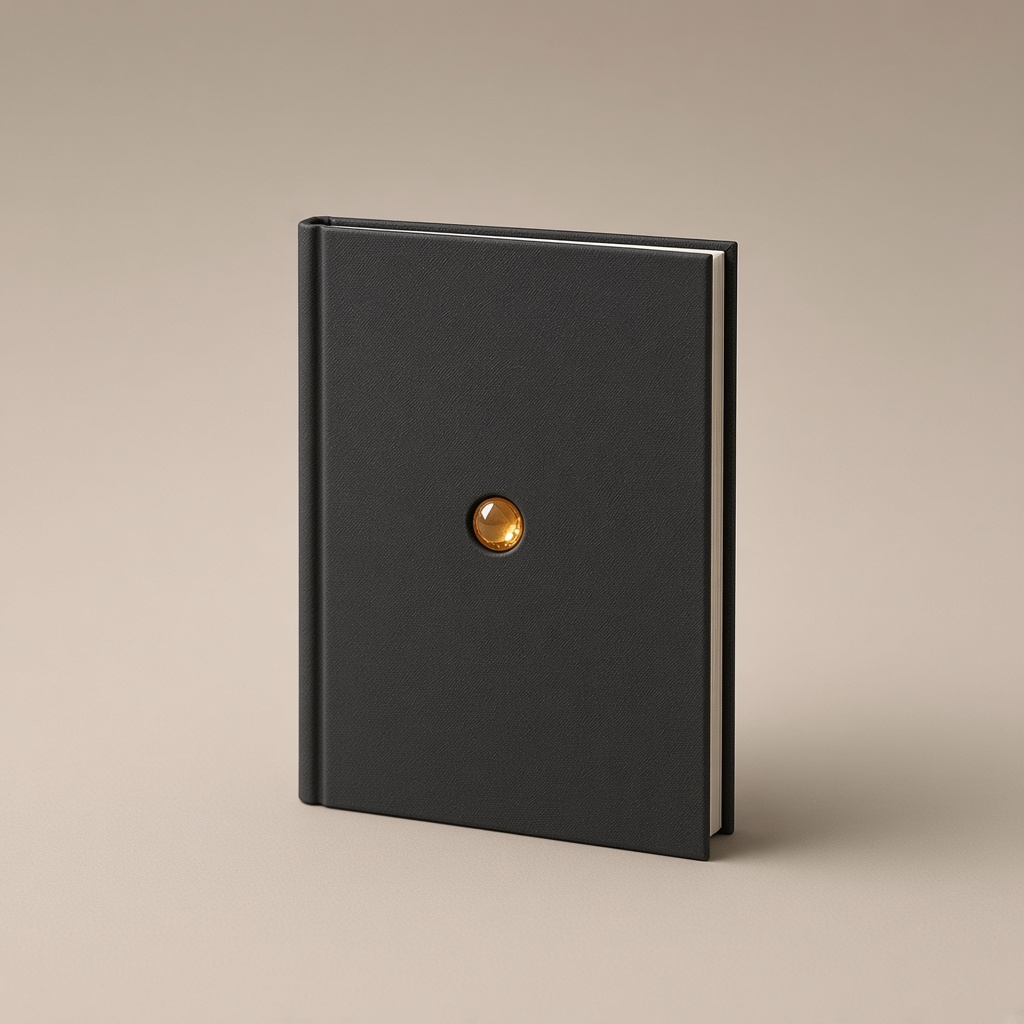
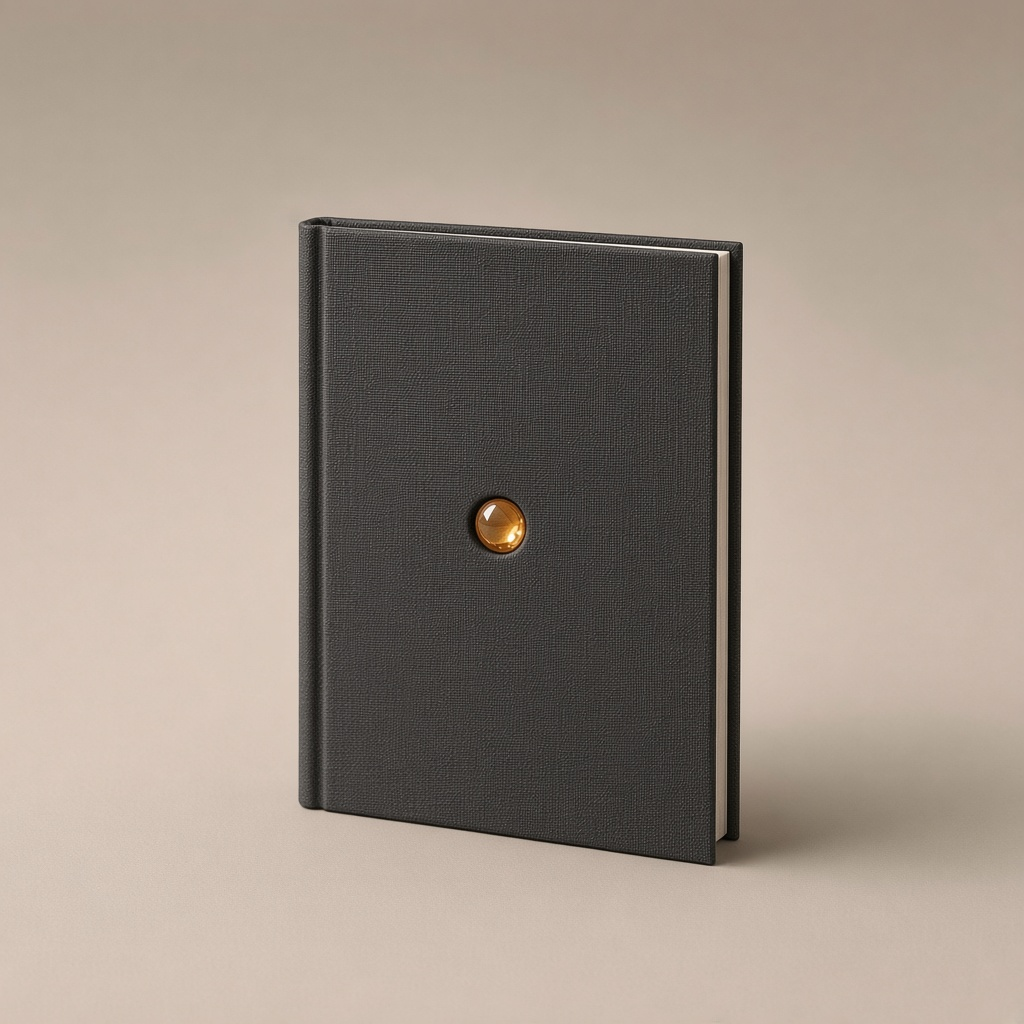
Replace the Premium photograph with a name and badge, and give the book covers a cloth texture.

Changed region(s): [[0.2812, 0.2188, 0.75, 0.8438]]

diff --git a/app/globals.css b/app/globals.css
@@ -336,6 +336,43 @@ h1, h2, h3 { font-family: var(--serif); font-weight: 400; letter-spacing: -0.03e
   line-height: 1.02;
   letter-spacing: -0.03em;
 }
+.premium-cover {
+  width: 100%;
+  height: 100%;
+  background:
+    radial-gradient(circle at 50% 40%, rgba(255, 255, 255, 0.55), transparent 42%),
+    var(--stage);
+  color: var(--ink);
+  display: flex;
+  flex-direction: column;
+  align-items: center;
+  justify-content: center;
+  gap: 8%;
+  container-type: inline-size;
+}
+.premium-badge {
+  width: 24%;
+  aspect-ratio: 1;
+  border-radius: 50%;
+  border: 1px solid rgba(28, 26, 23, 0.55);
+  box-shadow: inset 0 0 0 0.35em rgba(28, 26, 23, 0.12);
+  display: flex;
+  align-items: center;
+  justify-content: center;
+}
+.premium-badge svg { width: 54%; height: 54%; }
+.card-media .premium-cover,
+.stage .premium-cover {
+  position: absolute;
+  inset: 0;
+}
+.premium-cover strong {
+  font-family: var(--serif);
+  font-weight: 400;
+  font-size: 14cqw;
+  letter-spacing: -0.03em;
+  line-height: 1;
+}
 
 .color-row {
   list-style: none;
@@ -481,13 +518,20 @@ h1, h2, h3 { font-family: var(--serif); font-weight: 400; letter-spacing: -0.03e
   border-top: 1px solid var(--border);
   align-items: center;
 }
-.line img, .line .thumb {
+.line .thumb img,
+.line .thumb .premium-cover,
+.line .thumb .plate {
+  width: 100%;
+  height: 100%;
+  object-fit: cover;
+}
+.line .thumb {
   width: 88px;
   height: 88px;
-  object-fit: cover;
+  display: flex;
   background: var(--stage);
+  overflow: hidden;
 }
-.line .thumb { display: flex; }
 .line .thumb .plate { padding: 8px; }
 .line .thumb .plate strong { font-size: 0.95rem; }
 .line-name { font-family: var(--serif); color: var(--fg); font-size: 1.15rem; text-decoration: none; }

diff --git a/components/BagDrawer.tsx b/components/BagDrawer.tsx
@@ -4,8 +4,9 @@ import Link from "next/link";
 import { useEffect, useRef } from "react";
 import { useCart } from "@/components/CartProvider";
 import { Qty } from "@/components/Qty";
+import { ProductVisual } from "@/components/ProductVisual";
 import { summarize } from "@/lib/bag";
-import { asset, formatEUR } from "@/lib/site";
+import { formatEUR } from "@/lib/site";
 
 export function BagDrawer() {
   const { lines, drawerOpen, setDrawerOpen, setQty, remove } = useCart();
@@ -40,15 +41,9 @@ export function BagDrawer() {
           ) : (
             summary.resolved.map((item) => (
               <div className="line" key={item.line.key}>
-                {item.image ? (
-                  <img src={asset(item.image)} alt="" />
-                ) : (
-                  <div className="thumb">
-                    <div className="plate">
-                      <strong>{item.product.plate?.title}</strong>
-                    </div>
-                  </div>
-                )}
+                <div className="thumb">
+                  <ProductVisual product={item.product} src={item.image} alt="" />
+                </div>
                 <div>
                   <Link
                     className="line-name"

diff --git a/components/BagView.tsx b/components/BagView.tsx
@@ -3,8 +3,9 @@
 import Link from "next/link";
 import { useCart } from "@/components/CartProvider";
 import { Qty } from "@/components/Qty";
+import { ProductVisual } from "@/components/ProductVisual";
 import { summarize } from "@/lib/bag";
-import { asset, formatEUR } from "@/lib/site";
+import { formatEUR } from "@/lib/site";
 
 export function BagView() {
   const { lines, ready, setQty, remove } = useCart();
@@ -34,15 +35,9 @@ export function BagView() {
         <>
           {summary.resolved.map((item) => (
             <div className="line" key={item.line.key}>
-              {item.image ? (
-                <img src={asset(item.image)} alt="" />
-              ) : (
-                <div className="thumb">
-                  <div className="plate">
-                    <strong>{item.product.plate?.title}</strong>
-                  </div>
-                </div>
-              )}
+              <div className="thumb">
+                <ProductVisual product={item.product} src={item.image} alt="" />
+              </div>
               <div>
                 <Link className="line-name" href={`/${item.product.collection}/${item.product.slug}`}>
                   {item.product.name}

diff --git a/components/BuyPanel.tsx b/components/BuyPanel.tsx
@@ -4,9 +4,10 @@ import { useEffect, useState } from "react";
 import { useSearchParams } from "next/navigation";
 import { useCart } from "@/components/CartProvider";
 import { Qty } from "@/components/Qty";
+import { ProductVisual } from "@/components/ProductVisual";
 import type { Product } from "@/lib/catalog";
 import { findColor } from "@/lib/catalog";
-import { asset, formatEUR } from "@/lib/site";
+import { formatEUR } from "@/lib/site";
 
 export function BuyPanel({ product }: { product: Product }) {
   const params = useSearchParams();
@@ -40,14 +41,7 @@ export function BuyPanel({ product }: { product: Product }) {
     <div className="pdp">
       <div>
         <div className="stage">
-          {src ? (
-            <img src={asset(src)} alt={alt} />
-          ) : (
-            <div className="plate">
-              <span>{product.plate?.kicker}</span>
-              <strong>{product.plate?.title}</strong>
-            </div>
-          )}
+          <ProductVisual product={product} src={src} alt={alt} />
         </div>
         {product.packImage ? (
           <button

diff --git a/components/ProductCard.tsx b/components/ProductCard.tsx
@@ -1,6 +1,7 @@
 import Link from "next/link";
 import type { Product } from "@/lib/catalog";
-import { asset, formatEUR } from "@/lib/site";
+import { ProductVisual } from "@/components/ProductVisual";
+import { formatEUR } from "@/lib/site";
 
 export function ProductCard({ product }: { product: Product }) {
   const href = `/${product.collection}/${product.slug}`;
@@ -10,14 +11,7 @@ export function ProductCard({ product }: { product: Product }) {
   return (
     <Link className="card" href={href}>
       <div className="card-media">
-        {product.image ? (
-          <img src={asset(product.image)} alt={product.imageAlt} />
-        ) : (
-          <div className="plate">
-            <span>{product.plate?.kicker}</span>
-            <strong>{product.plate?.title}</strong>
-          </div>
-        )}
+        <ProductVisual product={product} alt={product.imageAlt} />
         {product.sample ? <span className="sample-tag">Sample colourway</span> : null}
       </div>
       <div className="card-meta">

diff --git a/components/ProductVisual.tsx b/components/ProductVisual.tsx
@@ -1,0 +1,36 @@
+import type { Product } from "@/lib/catalog";
+import { Mark } from "@/components/Mark";
+import { asset } from "@/lib/site";
+
+export function PremiumCover() {
+  return (
+    <div className="premium-cover">
+      <span className="premium-badge" aria-hidden="true">
+        <Mark />
+      </span>
+      <strong>Premium</strong>
+    </div>
+  );
+}
+
+export function ProductVisual({
+  product,
+  src,
+  alt,
+}: {
+  product: Product;
+  src?: string;
+  alt?: string;
+}) {
+  if (product.slug === "premium") return <PremiumCover />;
+  const image = src || product.image;
+  if (image) {
+    return <img src={asset(image)} alt={alt || product.imageAlt || product.name} />;
+  }
+  return (
+    <div className="plate">
+      <span>{product.plate?.kicker}</span>
+      <strong>{product.plate?.title}</strong>
+    </div>
+  );
+}

diff --git a/lib/catalog.ts b/lib/catalog.ts
@@ -224,8 +224,8 @@ export const products: Product[] = [
       "Your own writing stays free either way — every entry, the handover, and the knowledge that a new chapter has begun. Premium is for everything around that.",
     ],
     price: 2499,
-    image: "/products/premium.jpg",
-    imageAlt: "A single iridescent gem, the mark of GemTale Premium",
+    image: "",
+    imageAlt: "Premium",
     plate: { kicker: "Once", title: "Premium" },
     facts: [
       { label: "Price", value: "€24.99 once, per account" },
